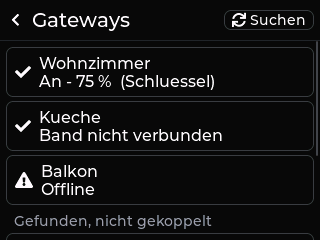
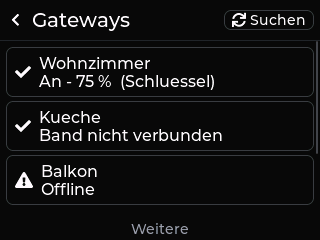
RockBase-UI: Abschnittsueberschriften zentriert mit Abstand, "Weitere"
- uiListText (Abschnittsueberschrift in Listen): zentriert, 12 px Abstand
  nach oben. Gilt auch fuer die Ueberschriften der Zigbee-Seite.
- Gateway-Verwaltung: "Gefunden, nicht gekoppelt" heisst jetzt "Weitere".
- Platzhalter ("Keine gefunden ...", "Keine gekoppelten Gateways.") sind
  normale graue Texte statt Ueberschriften.

Claude-Session: https://claude.ai/code/session_01XRbTNR4FRdpa3sNittWBxo

Changed region(s): [[0.0312, 0.9042, 0.9688, 0.9917]]

diff --git a/next/controller/main/ui_settings.cpp b/next/controller/main/ui_settings.cpp
@@ -108,7 +108,7 @@ static void buildGwList() {
     snprintf(line, sizeof(line), "%s\n%s%s", v.name, st, v.hasKey ? "  (Schluessel)" : "");
     uiListButton(gwList, v.online ? LV_SYMBOL_OK : LV_SYMBOL_WARNING, line, pairedClicked, (void *)(intptr_t)i);
   }
-  uiListText(gwList, "Gefunden, nicht gekoppelt");
+  uiListText(gwList, "Weitere"); // gefundene, noch nicht gekoppelte Gateways
 
   for (int i = 0; i < appGatewayCount(); i++) {
     if (!appView(i, v) || v.paired || !v.online) {
@@ -122,7 +122,7 @@ static void buildGwList() {
     unknown++;
   }
   if (!unknown) {
-    uiListText(gwList, "  keine (Suche laeuft automatisch)");
+    uiLabel(gwList, "Keine gefunden (Suche laeuft automatisch)", true);
   }
 }
 

diff --git a/next/controller/main/ui.h b/next/controller/main/ui.h
@@ -23,7 +23,7 @@ lv_obj_t *uiButton(lv_obj_t *parent, const char *text, lv_event_cb_t cb, void *u
 lv_obj_t *uiDot(lv_obj_t *parent, int size = 10);
 // Liste als Flex-Spalte (lv_list ist in LVGL 9.6 abgekuendigt)
 lv_obj_t *uiList(lv_obj_t *parent);
-lv_obj_t *uiListText(lv_obj_t *list, const char *text);
+lv_obj_t *uiListText(lv_obj_t *list, const char *text); // Abschnittsueberschrift (zentriert)
 lv_obj_t *uiListButton(lv_obj_t *list, const char *icon, const char *text, lv_event_cb_t cb, void *user = nullptr);
 void uiDotColor(lv_obj_t *dot, int state); // 1 gruen, 0 rot, -1 weiss (unbekannt)
 void uiToast(const char *text);

diff --git a/next/controller/main/ui_common.cpp b/next/controller/main/ui_common.cpp
@@ -211,9 +211,11 @@ lv_obj_t *uiList(lv_obj_t *parent) {
   return l;
 }
 
+// Abschnittsueberschrift in Listen: grau, zentriert, mit Abstand nach oben zum vorigen Abschnitt
 lv_obj_t *uiListText(lv_obj_t *list, const char *text) {
   lv_obj_t *t = uiLabel(list, text, true);
-  lv_obj_set_style_pad_top(t, 4, 0);
+  lv_obj_set_style_text_align(t, LV_TEXT_ALIGN_CENTER, 0);
+  lv_obj_set_style_margin_top(t, 12, 0);
   return t;
 }
 

diff --git a/next/controller/main/ui_zigbee.cpp b/next/controller/main/ui_zigbee.cpp
@@ -72,7 +72,7 @@ static void buildEpList() {
     n++;
   }
   if (!n) {
-    uiListText(epList, "Keine gekoppelten Gateways.");
+    uiLabel(epList, "Keine gekoppelten Gateways.", true);
   }
 }
 
